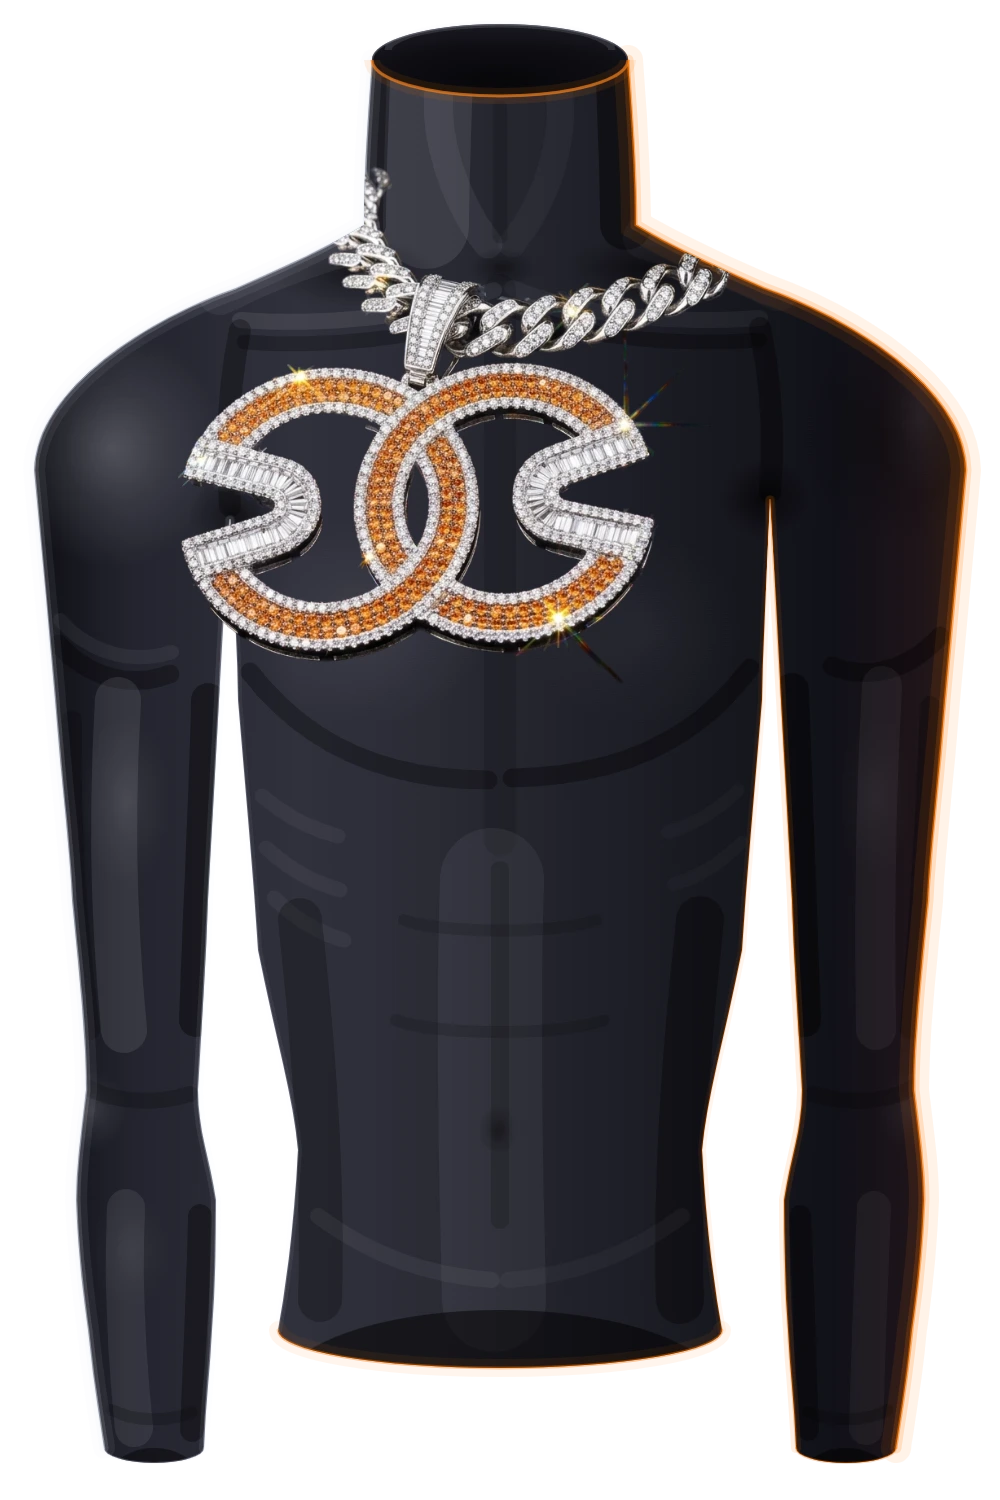
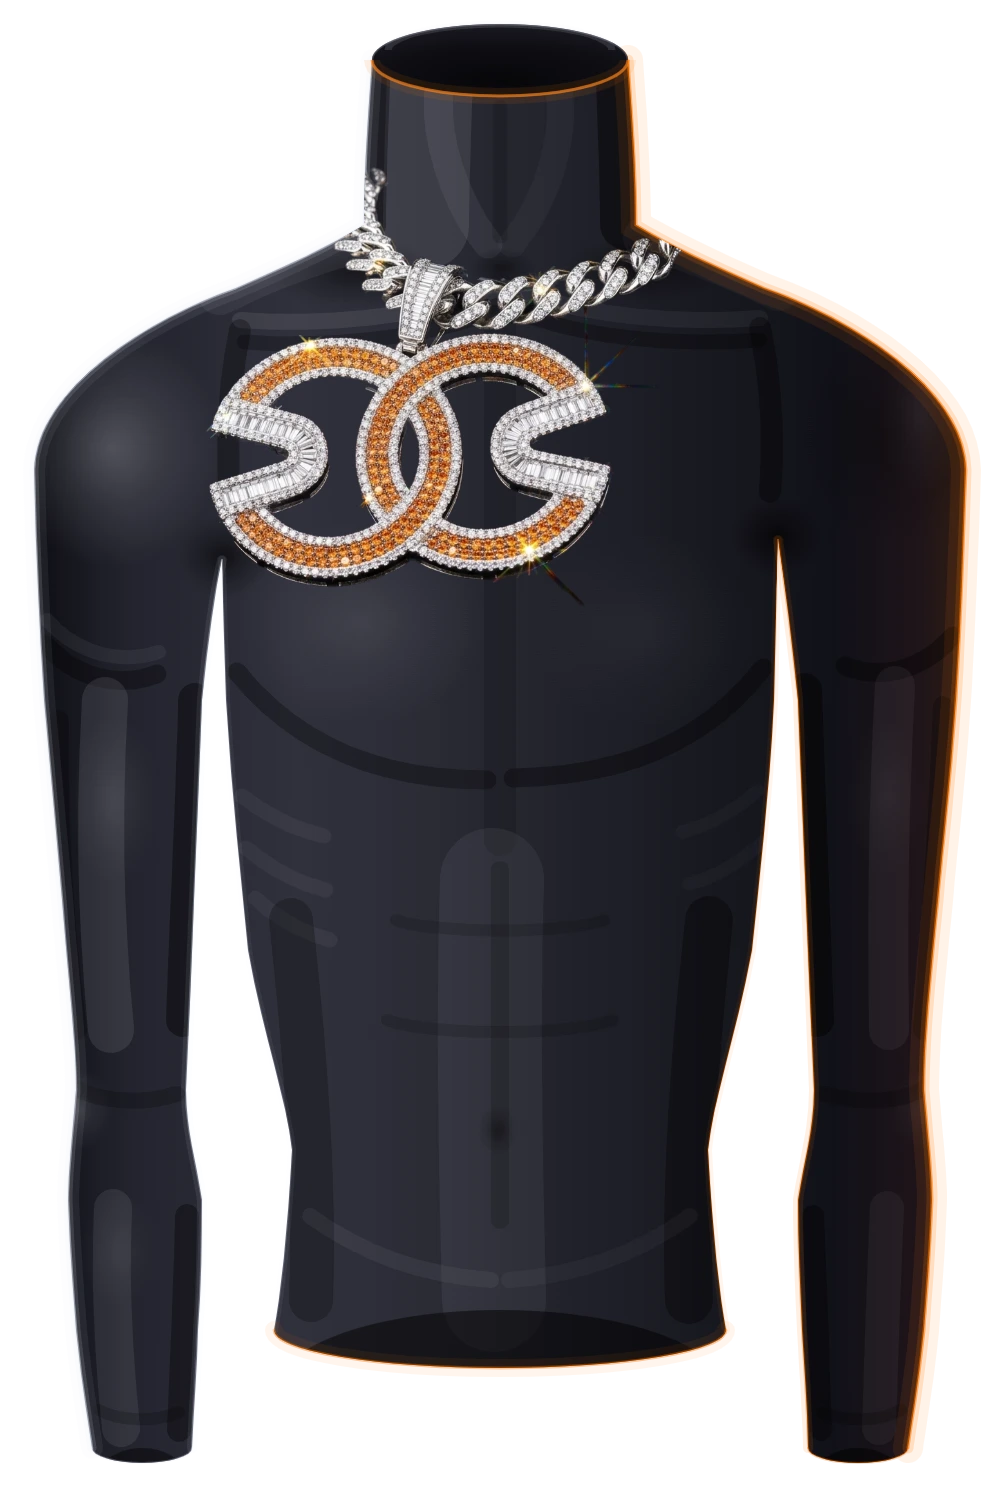
feat: o peito cresce e o colar encolhe ate pararem de disputar
O pingente tinha 0,95 da largura do peito — uma joia tao larga quanto o torax
de quem a usa. O comentario ja dizia que 1,03 era "o maximo que um pingente de
verdade chega", e isso era generoso demais: no maximo, um pingente de verdade
cabe no peito com folga. Agora da 0,78.

Dois tercos da correcao vieram do corpo, como pedido, e o resto da foto. O
corpo nao podia dar tudo: o ombro tem 932 e nao cresce, e dentro dele moram o
tronco, os dois bracos e os dois vaos. Peito de 548 + 2x158 de braco + 2x24 de
vao fecha a conta exata. Tentei 568 de peito antes de chegar aqui e o vao virou
um fio — o braco deixava de se ver, que era justamente o que as versoes
anteriores levaram quatro tentativas para resolver.

Ha ainda um piso que fixa o braco em 158: a borda externa dele nao pode subir
acima de 44 na altura do biceps, senao o braco fica mais largo ali do que o
deltoide la em cima e o ombro perde a inclinacao.

A foto foi de 66% para 56%, e isso move duas coisas que nao sao livres. A
corrente encolhe junto com o pingente, entao o quadro foi reposto a partir de
onde a ponta esquerda dela cai DENTRO da foto (u 0,3347 / v 0,0248), para
continuar pousando no contorno do pescoco em (366, 170) — fora dali ela acaba
no ar no meio do peito. E a fronteira do recorte, que separa a corrente do
pingente, sai da mesma conta: v 0,3773, que agora cai em y 330 e nao mais 358.

diff --git a/public/arte/compor.html b/public/arte/compor.html
@@ -50,8 +50,8 @@ async function silhuetaDe(svg, id) {
    ombro — e nada mais. Abaixo, o pingente pende na frente do corpo e passa
    por cima de tudo, inclusive do vao entre braco e tronco; recortar ali
    obrigaria o corpo a ser um bloco macico. */
-const CORRENTE = "M-500 -500 L 1600 -500 L 1600 358 L -500 358 Z";
-const PINGENTE = "M-500 358 L 1600 358 L 1600 2300 L -500 2300 Z";
+const CORRENTE = "M-500 -500 L 1600 -500 L 1600 330 L -500 330 Z";
+const PINGENTE = "M-500 330 L 1600 330 L 1600 2300 L -500 2300 Z";
 
 /* O arco de baixo do vao da pulseira, medido na propria foto. Divide a
    imagem em duas: acima dele o braco passa na frente do metal, abaixo passa
@@ -86,7 +86,7 @@ function carrega(src, w, h) {
     {
       nome: "colar-500k-vestido.webp", w: 1000, h: 1500,
       arte: "/arte/dorso.svg", foto: "/images/colar-500k.webp",
-      quadro: [171.6, 156.8, 580.8, 533.3],
+      quadro: [201.1, 158.8, 492.8, 452.5],
       camadas: [
         { o: "arte" },
         { o: "foto", recorte: [BUSTO, CORRENTE] },
